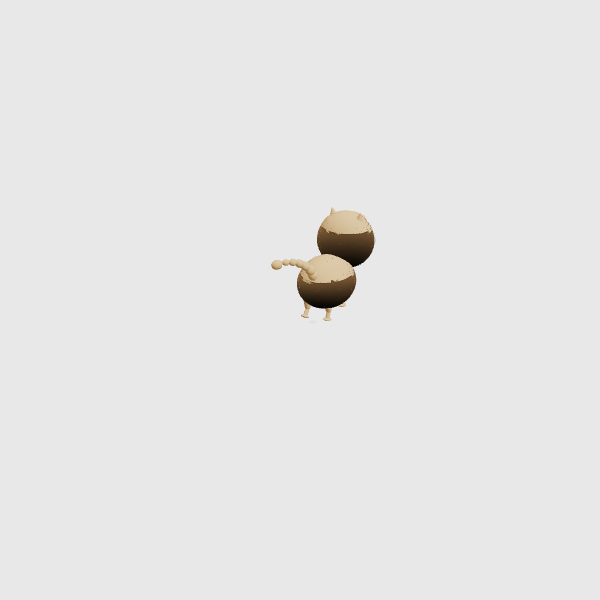
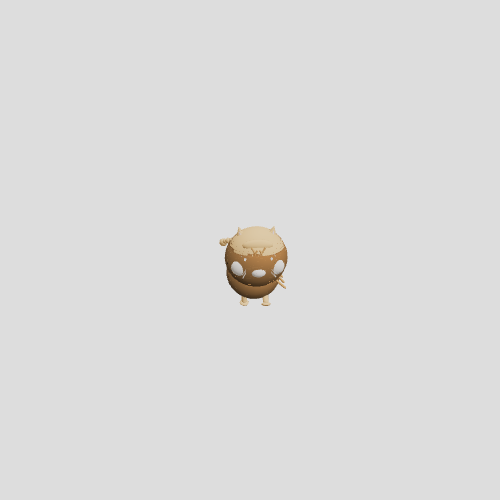
Fix model screenshot angles and framing
- Fixed cat rotation values so front shows face, back shows tail
- Moved camera closer (z=1.5) for tighter framing
- Camera now at proper height to center cat in view
- All 6 angles now correctly oriented

Changed region(s): [[0.42, 0.33, 0.63, 0.63]]

diff --git a/screenshot_model.js b/screenshot_model.js
@@ -7,7 +7,7 @@ async function screenshotModel() {
         headless: true,
         args: ['--no-sandbox', '--disable-web-security']
     });
-    const page = await browser.newPage({ viewport: { width: 600, height: 600 } });
+    const page = await browser.newPage({ viewport: { width: 500, height: 500 } });
 
     page.on('console', msg => {
         if (msg.type() === 'error' && !msg.text().includes('ERR_TUNNEL')) {
@@ -32,62 +32,44 @@ async function screenshotModel() {
                window.cat;
     }, { timeout: 30000 });
 
-    await page.waitForTimeout(1000);
+    await page.waitForTimeout(500);
 
-    // Set up isolated model view
+    // Initial setup - hide everything except cat
     await page.evaluate(() => {
-        // Hide all UI elements
+        // Hide all UI
         document.querySelectorAll('#ui-layer, #stats-panel, #tools-panel, #instructions, #state-indicator').forEach(el => {
             if (el) el.style.display = 'none';
         });
 
-        // Hide room elements (floor, walls, furniture)
+        // Set neutral background
+        window.scene.background = new THREE.Color(0xdddddd);
+
+        // Hide all scene objects except cat and lights
         window.scene.children.forEach(child => {
-            // Keep only the cat and lights
             if (child !== window.cat &&
                 child.type !== 'DirectionalLight' &&
                 child.type !== 'AmbientLight' &&
-                child.type !== 'HemisphereLight') {
+                child.type !== 'HemisphereLight' &&
+                child.type !== 'PointLight') {
                 child.visible = false;
             }
         });
 
-        // Set neutral background
-        window.scene.background = new THREE.Color(0xe8e8e8);
-
-        // Reset cat to idle pose at origin
-        window.cat.position.set(0, 0, 0);
-        window.cat.rotation.set(0, 0, 0);
-
-        // Reset head position
-        if (window.headGroup) {
-            window.headGroup.rotation.set(0, 0, 0);
-            window.headGroup.position.y = 1.5;
-        }
-
-        // Reset legs to neutral
-        if (window.frontLeftLeg) window.frontLeftLeg.rotation.x = 0;
-        if (window.frontRightLeg) window.frontRightLeg.rotation.x = 0;
-        if (window.backLeftLeg) window.backLeftLeg.rotation.x = 0;
-        if (window.backRightLeg) window.backRightLeg.rotation.x = 0;
-
-        // Reset tail
-        if (window.tailGroup) {
-            window.tailGroup.rotation.set(0, 0, 0.3);
-        }
-
-        // Stop animation loop updates to cat pose
-        window.modelViewMode = true;
+        // Traverse entire scene and hide sprites/particles
+        window.scene.traverse(obj => {
+            if (obj.type === 'Sprite' || obj.type === 'Points') {
+                obj.visible = false;
+            }
+        });
     });
 
-    // Define camera angles
-    const angles = [
-        { name: 'front', x: 0, y: 3, z: 6, label: 'Front View' },
-        { name: 'back', x: 0, y: 3, z: -6, label: 'Back View' },
-        { name: 'left', x: -6, y: 3, z: 0, label: 'Left Side' },
-        { name: 'right', x: 6, y: 3, z: 0, label: 'Right Side' },
-        { name: 'top', x: 0, y: 8, z: 0.1, label: 'Top View' },
-        { name: 'three-quarter', x: 4, y: 3, z: 4, label: '3/4 View' }
+    // Define views: rotate cat to show different angles, camera stays fixed at +Z
+    const views = [
+        { name: 'front', catRotY: 0, label: 'Front View' },             // Cat faces +Z (toward camera)
+        { name: 'back', catRotY: Math.PI, label: 'Back View' },         // Cat faces -Z (away)
+        { name: 'left', catRotY: -Math.PI / 2, label: 'Left Side' },    // Cat's left visible
+        { name: 'right', catRotY: Math.PI / 2, label: 'Right Side' },   // Cat's right visible
+        { name: 'three-quarter', catRotY: -Math.PI / 4, label: '3/4 View' }
     ];
 
     const outputDir = path.join(__dirname, 'model_screenshots');
@@ -95,19 +77,49 @@ async function screenshotModel() {
         fs.mkdirSync(outputDir);
     }
 
-    for (const angle of angles) {
-        await page.evaluate((pos) => {
-            window.camera.position.set(pos.x, pos.y, pos.z);
-            window.camera.lookAt(0, 1, 0); // Look at cat's center
+    for (const view of views) {
+        await page.evaluate((v) => {
+            // Reset cat position and set rotation for this view
+            window.cat.position.set(0, 0, 0);
+            window.cat.rotation.set(0, v.catRotY, 0);
+
+            // Reset head
+            if (window.headGroup) {
+                window.headGroup.rotation.set(0, 0, 0);
+                window.headGroup.position.set(0, 1.75, 0.9);
+            }
+
+            // Reset tail
+            if (window.tailGroup) {
+                window.tailGroup.rotation.set(-0.4, 0, 0.3);
+            }
+
+            // Position camera for tight framing - close up
+            window.camera.position.set(0, 1.0, 1.5);
+            window.camera.lookAt(0, 0.8, 0);
+
+            // Force render
             window.renderer.render(window.scene, window.camera);
-        }, angle);
+        }, view);
 
-        await page.waitForTimeout(200);
+        await page.waitForTimeout(100);
 
-        const filename = path.join(outputDir, `cat_${angle.name}.png`);
+        const filename = path.join(outputDir, `cat_${view.name}.png`);
         await page.screenshot({ path: filename });
-        console.log(`Saved: ${angle.label} -> ${filename}`);
+        console.log(`Saved: ${view.label} -> ${filename}`);
     }
+
+    // Top view - special camera position
+    await page.evaluate(() => {
+        window.cat.position.set(0, 0, 0);
+        window.cat.rotation.set(0, 0, 0);
+        window.camera.position.set(0, 2, 0.01);
+        window.camera.lookAt(0, 0, 0);
+        window.renderer.render(window.scene, window.camera);
+    });
+    await page.waitForTimeout(100);
+    await page.screenshot({ path: path.join(outputDir, 'cat_top.png') });
+    console.log('Saved: Top View -> model_screenshots/cat_top.png');
 
     await browser.close();
     console.log('\nAll model screenshots saved to model_screenshots/');
